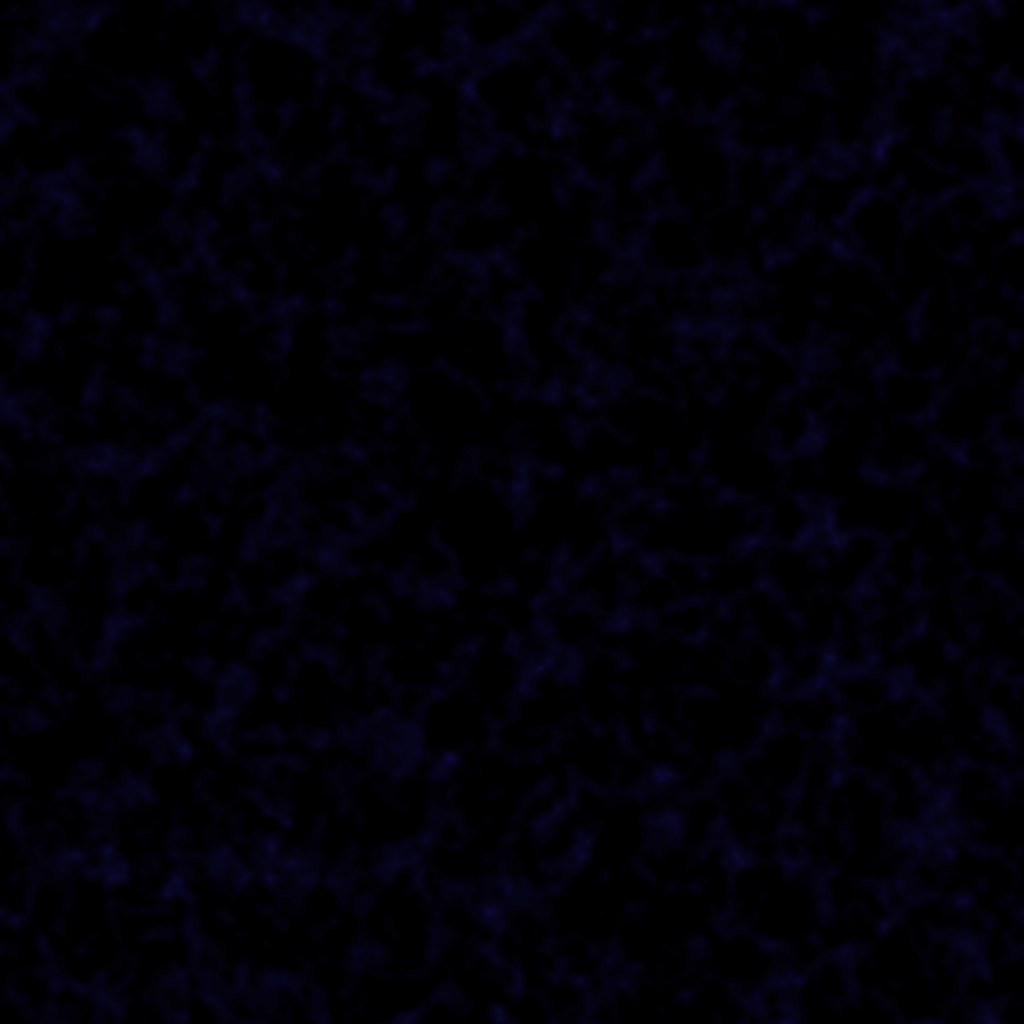
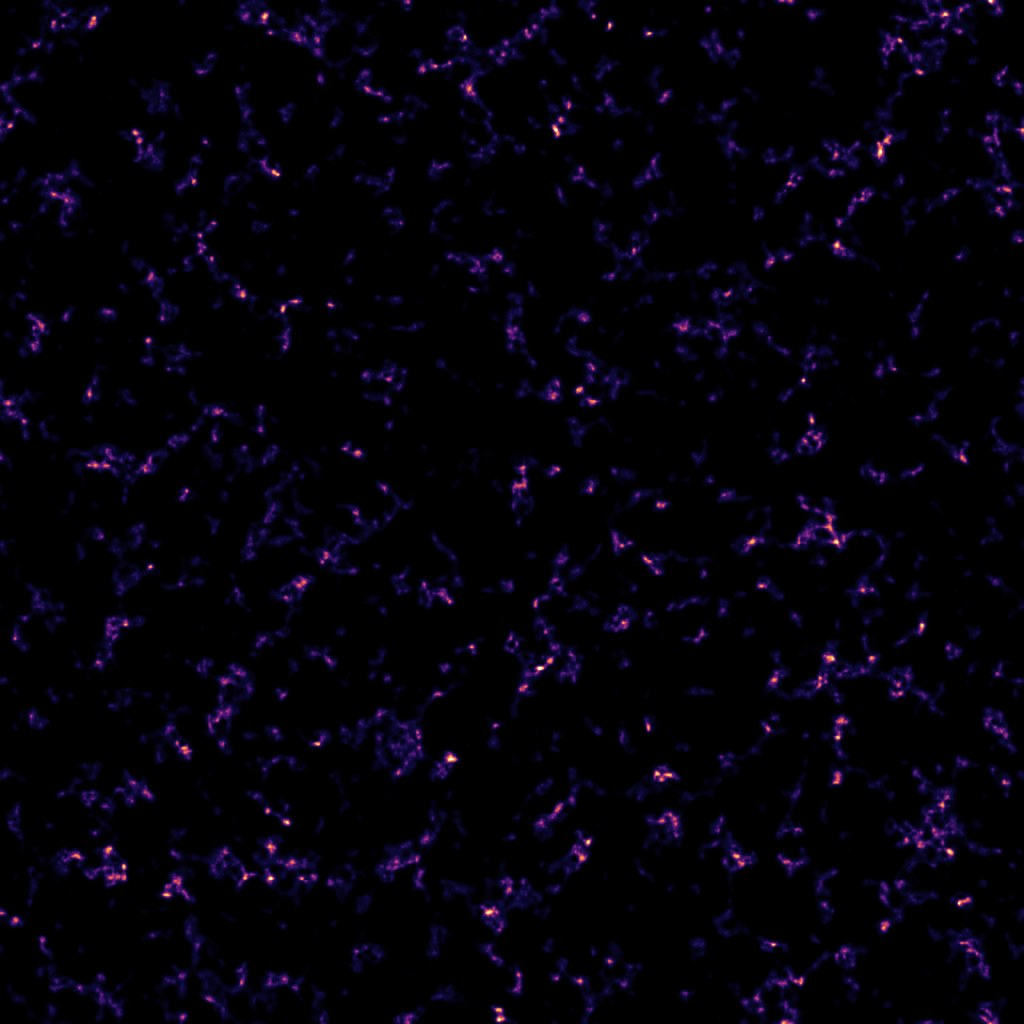
Carte : texte d'accueil réécrit (premier paragraphe + plus…), galaxie plus grande dans la promenade, grain de matière jusqu'à l'univers observable
Claude-Session: https://claude.ai/code/session_01GHjNcfzL2CJ8gPVCBJ87Be

diff --git a/app/public/carte/index.html b/app/public/carte/index.html
@@ -87,6 +87,8 @@ input[type=range].bouge { animation: pouls 1s ease-in-out infinite; }
 #modaleBoutons.empile { flex-direction: column; align-items: stretch; margin-top: 14px; }
 #modaleBoutons.empile #fermer { width: 100%; padding: 12px 14px; font-size: 15px; background: var(--accent); color: #0a0f18; border-color: var(--accent); font-weight: 600; }
 #modaleBoutons.empile .plus { width: 100%; }
+#modaleCorps p[hidden] { display: none; }
+#modaleCorps .lirePlus { color: var(--accent); text-decoration: none; white-space: nowrap; }
 #intro { position: fixed; left: 14px; right: 62px; top: calc(env(safe-area-inset-top) + 92px); background: rgba(12,14,21,0.92); border: 1px solid var(--trait); border-radius: 12px; padding: 12px 14px; z-index: 4; font-size: 14px; line-height: 1.5; }
 #intro[hidden], .carteInfo[hidden] { display: none; }
 .carteInfo { position: fixed; left: 14px; right: 62px; top: calc(env(safe-area-inset-top) + 92px); background: rgba(12,14,21,0.92); border: 1px solid var(--trait); border-radius: 12px; padding: 12px 14px; z-index: 4; font-size: 14px; line-height: 1.5; }
@@ -167,13 +169,11 @@ input[type=range].bouge { animation: pouls 1s ease-in-out infinite; }
   </div>
 </div>
 <template id="txtApropos">
-    <p>Cette carte est une tentative — nécessairement imparfaite — de rendre sensible ce que les nombres, seuls, ne peuvent qu'énoncer : que la lumière qui vous atteint ce soir a parfois quitté sa source avant que la Terre n'existe ; que l'espace lui-même s'étire, silencieusement, entre chaque point que vous voyez ; que l'univers observable, ce halo de 93 milliards d'années-lumière qui vous entoure, n'est peut-être qu'une fraction infime de ce qui existe réellement au-delà de ce que la lumière a eu le temps de nous apporter.</p>
-    <p>Zoomez, et vous traverserez en un geste des distances que la lumière met des milliards d'années à parcourir. Remontez le temps, et vous verrez la matière se resserrer, jusqu'au seuil où l'univers devient trop dense, trop jeune, pour qu'aucune lumière n'ait encore pu s'en échapper.</p>
-    <p>Il n'y a pas de centre à cette carte — seulement le point d'où nous regardons, comme n'importe quel autre point de l'univers pourrait le faire.</p>
-</template>
-<template id="txtAccueil">
-    <p>Depuis la toile cosmique jusqu'aux confins de ce que la lumière a jamais pu nous révéler — 93 milliards d'années-lumière d'univers observable tiennent entre vos doigts. Zoomez avec le curseur de droite, voyagez dans le temps avec celui du bas, et laissez-vous porter.</p>
-    <p>Les trois derniers boutons du bas racontent chacun l'une des trois limites de l'univers. Un second appui arrête le scénario et vous rend la main là où vous êtes ; « aujourd'hui », sous la frise du temps, vous ramène au présent.</p>
+    <p>Ici, l'univers tient entre vos doigts. Le curseur de droite vous emporte d'une échelle à l'autre, de notre galaxie jusqu'aux confins de l'univers observable ; celui du bas remonte le temps, jusqu'à l'aube du monde. Et sur cette carte se dessinent trois frontières que nul œil ne voit : l'univers observable, tout ce que la lumière a eu le temps de nous apporter ; la sphère de Hubble, au-delà de laquelle l'espace nous fuit plus vite que la lumière ; l'horizon des événements, au-delà duquel rien de ce qui advient aujourd'hui ne nous parviendra jamais.</p>
+    <p>La lumière qui vous atteint ce soir a parfois quitté sa source avant que la Terre n'existe. Entre chaque point que vous voyez, l'espace lui-même s'étire, en silence. Et ce halo de 93 milliards d'années-lumière qui nous enveloppe n'est peut-être qu'une parcelle infime de ce qui existe, au-delà de ce que la lumière a pu nous confier.</p>
+    <p>Zoomez, et vous franchirez d'un geste des distances que la lumière met des milliards d'années à parcourir. Remontez le temps, et vous verrez la matière se resserrer, jusqu'au seuil où l'univers, trop dense et trop jeune, ne laissait encore s'échapper aucune lumière.</p>
+    <p>Quatre récits vous prennent par la main : une promenade, de la toile cosmique jusqu'à la naissance de notre galaxie, puis un récit pour chacune des trois frontières. Un second appui sur un récit vous rend la liberté, là où vous êtes ; « aujourd'hui », sous la frise du temps, vous ramène au présent.</p>
+    <p>Il n'y a pas de centre à cette carte : seulement le point d'où nous regardons, comme n'importe quel autre point de l'univers pourrait le faire.</p>
 </template>
 <template id="txtObservable">
     <p>L'univers observable marque la limite de ce qu'il est physiquement possible d'observer aujourd'hui : la distance parcourue par la lumière la plus ancienne qui ait jamais pu nous atteindre, depuis les tout premiers instants de l'univers.</p>
@@ -240,6 +240,7 @@ const TUILE_GAL = 0.96782, GRANDE_GAL = 7.25866;
 const AT = [0.0667, 0.0909, 0.1250, 0.1667, 0.2222, 0.2857, 0.3704, 0.5000, 0.6667, 0.8333, 1.0000];
 const jeu = nom => AT.map(a => { const im = new Image(); im.src = `tuiles/${nom}-a${a.toFixed(4)}.jpg`; return { a, im, moy: "rgb(20,4,2)", motif: null }; });
 const imgsP = jeu("petite"), imgsG = jeu("grande"), imgs = imgsP.concat(imgsG);
+imgsG.forEach(o => o.crete = true);
 let pretes = 0;
 // un échec réseau est réessayé deux fois ; ensuite la tuile est abandonnée (on dessine
 // avec ses voisines dans le temps) pour ne jamais figer le chargement
@@ -276,11 +277,29 @@ function copieDecalee(c, src, T, [ox, oy]) {
   c.restore();
 }
 const superTuiles = new Map();
-function superTuile(o) {
-  let st = superTuiles.get(o.im.src); if (st) return st;
-  const n = 4, T = 256, c = document.createElement("canvas"); c.width = c.height = n * T;
-  // réduction par moitiés successives : pas de crénelage
+function superTuile(o, T = 256) {
+  const cle = o.im.src + "|" + T;
+  let st = superTuiles.get(cle); if (st) return st;
+  const n = 4, c = document.createElement("canvas"); c.width = c.height = n * T;
+  // réduction par moitiés successives : pas de crénelage. Pour la grande boîte, moyenne
+  // d'ordre 4 par blocs : un amas isolé garde la moitié de son éclat au lieu d'un seizième,
+  // si bien qu'aux très grands champs la matière reste un grain visible, pas une teinte unie
   let src = o.im, w = o.im.width;
+  if (o.crete && w > T) {
+    const f = w / T, seuil = { 32: 0.19, 64: 0.12, 128: 0.06, 256: 0.04 }[T] || 0.04, a = document.createElement("canvas"); a.width = a.height = w;
+    const ax = a.getContext("2d"); ax.drawImage(o.im, 0, 0); const d = ax.getImageData(0, 0, w, w).data;
+    const h = document.createElement("canvas"); h.width = h.height = T; const hx = h.getContext("2d"), r = hx.createImageData(T, T);
+    for (let y = 0; y < T; y++) for (let x0 = 0; x0 < T; x0++) {
+      let s0 = 0, s1 = 0, s2 = 0;
+      for (let v = 0; v < f; v++) { let q = ((y * f + v) * w + x0 * f) * 4; for (let u = 0; u < f; u++, q += 4) { const r0 = d[q] / 255, g0 = d[q + 1] / 255, b0 = d[q + 2] / 255; s0 += r0 * r0 * r0 * r0; s1 += g0 * g0 * g0 * g0; s2 += b0 * b0 * b0 * b0; } }
+      const k = (y * T + x0) * 4, n2 = f * f, R0 = (s0 / n2) ** 0.25, G0 = (s1 / n2) ** 0.25, B0 = (s2 / n2) ** 0.25;
+      // seuil constant par niveau (le 80e centile de la tuile d'aujourd'hui, mesuré une fois) :
+      // seuls les blocs les plus riches restent, en grains, avec leur couleur
+      const L = (R0 + G0 + B0) / 3, m = 2.6 * Math.min(1, Math.max(0, (L - seuil) / (0.8 * seuil)));
+      r.data[k] = 255 * Math.min(1, R0 * m); r.data[k + 1] = 255 * Math.min(1, G0 * m); r.data[k + 2] = 255 * Math.min(1, B0 * m); r.data[k + 3] = 255;
+    }
+    hx.putImageData(r, 0, 0); src = h; w = T;
+  }
   while (w / 2 >= T) { const h = document.createElement("canvas"); h.width = h.height = w / 2; const hx = h.getContext("2d"); hx.imageSmoothingQuality = "high"; hx.drawImage(src, 0, 0, w / 2, w / 2); src = h; w /= 2; }
   const x = c.getContext("2d"); x.imageSmoothingQuality = "high";
   for (let i = 0; i < n; i++) for (let j = 0; j < n; j++) {
@@ -289,8 +308,8 @@ function superTuile(o) {
     copieDecalee(x, src, T, decale(ii, jj));
   }
   st = ctx.createPattern(c, "repeat"); st.cote = n * T;
-  if (superTuiles.size > 6) superTuiles.delete(superTuiles.keys().next().value);
-  superTuiles.set(o.im.src, st); return st;
+  if (superTuiles.size > 12) superTuiles.delete(superTuiles.keys().next().value);
+  superTuiles.set(cle, st); return st;
 }
 
 // ---------------------------------------------------------------------------
@@ -965,7 +984,10 @@ function dessine() {
           }
           ctx.setTransform(1, 0, 0, 1, 0, 0);
         } else {
-          const st = superTuile(o), k = tuilePx / 256;
+          // grande boîte : motif préparé à la taille où il est dessiné (puissance de 2), pour que
+          // le navigateur ne le moyenne pas une seconde fois
+          const T = o.crete ? Math.max(32, Math.min(256, 2 ** Math.ceil(Math.log2(tuilePx)))) : 256;
+          const st = superTuile(o, T), k = tuilePx / T;
           st.setTransform(new DOMMatrix().translateSelf(cx - tuilePx / 2, cy - tuilePx / 2).scaleSelf(k, k));
           ctx.fillStyle = st; ctx.fillRect(0, 0, Wpx, Hpx);
         }
@@ -978,7 +1000,7 @@ function dessine() {
     };
     tuiles(imgsP, TUILE_GAL, 1 - aG);
     // la grande boîte, plus homogène, est rehaussée ; au très grand champ on l'atténue pour garder les sphères lisibles
-    tuiles(imgsG, GRANDE_GAL, aG * 1.4 * (1 - 0.55 * lisse(8, 40, W)));
+    tuiles(imgsG, GRANDE_GAL, aG * 1.4 * (1 - 0.25 * lisse(8, 40, W)));
     ctx.globalAlpha = 1;
   }
 
@@ -1413,21 +1435,22 @@ const SCEN = {
     // fin : retour fluide à aujourd'hui, au champ le plus proche de la référence Millennium
     // (0,2 Gal : élongation et rapport filaments/grenaille les plus proches de la cible)
     WFIN: 0.2,
+    WRECUL: 0.00017,      // champ pendant la remontée du temps : la galaxie assez grande pour ses détails
     alaFin() { libre(); },
     avance(dts) {
       if (this.retour >= 0) {
         this.retour += dts;
         const f = lisse(2.5, 11, this.retour), ft = lisse(2.5, 10, this.retour);
         t = 1.2 + (T0 - 1.2) * ft;
-        W = Math.exp(Math.log(0.00028) + (Math.log(this.WFIN) - Math.log(0.00028)) * f);
+        W = Math.exp(Math.log(this.WRECUL) + (Math.log(this.WFIN) - Math.log(this.WRECUL)) * f);
         elZ.value = uFromW(W); this.Wv = W;
         return this.retour >= 11.3;
       }
       const e = this.el, lis = (a, b) => lisse(a, b, e), lW = (w0, w1, f) => Math.exp(Math.log(w0) + (Math.log(w1) - Math.log(w0)) * f);
       if (e < 3) { W = 1.2; }
       else if (e < 14.5) W = lW(1.2, 0.00006, lis(3, 14.5));             // plongée vers la Voie lactée…
-      else if (e < 18.5) W = lW(0.00006, 0.00028, lis(14.5, 18.5));      // …et, d'un même mouvement, le recul vers ses environs
-      else W = 0.00028;
+      else if (e < 18.5) W = lW(0.00006, this.WRECUL, lis(14.5, 18.5));  // …et, d'un même mouvement, un léger recul
+      else W = this.WRECUL;
       if (e >= 19.5) {
         // le zoom est arrêté : on remonte le temps, d'abord doucement, puis vite jusqu'à ~7 Ga,
         // lentement pendant les collisions avec les galaxies naines, un peu plus vite ensuite
@@ -1445,7 +1468,7 @@ const SCEN = {
       if (e < 3) return "La toile cosmique aujourd'hui, sur des milliards d'années-lumière : des filaments de matière, des nœuds où s'amassent les galaxies, de grands vides.";
       if (e < 11) return "Plongée vers l'un de ces nœuds : notre superamas, puis notre groupe de galaxies.";
       if (e < 15.5) return "La Voie lactée, telle que la simule TNG50 : une jumelle de notre galaxie, vue de biais. Nous sommes dans son disque, à 27 000 années-lumière du centre.";
-      if (e < 19.5) return "Un peu de recul pour l'embrasser tout entière, avec ses environs.";
+      if (e < 19.5) return "Un peu de recul pour l'embrasser tout entière.";
       if (t > 12.5) return "Et maintenant, remontons le temps.";
       if (t > 10) return "Les bras spiraux s'effacent : ils sont faits d'étoiles jeunes et de gaz.";
       if (t > 7.2) return "Le disque se défait : il y a 6 à 8 milliards d'années, il était plus petit et plus agité.";
@@ -1589,8 +1612,16 @@ function zoomVers(Wc, ms = 800) { zoomAnim = { W0: W, W1: Wc, t0: performance.no
 // fenêtre d'information
 const modale = document.getElementById("modale"), corps = document.getElementById("modaleCorps"), titreM = document.getElementById("modaleTitre"), boutonsM = document.getElementById("modaleBoutons");
 let actionPrincipale = null;
-function ouvre(titre, gabarit, enPlus, principal) {
+function ouvre(titre, gabarit, enPlus, principal, tronque) {
   titreM.textContent = titre; corps.innerHTML = document.getElementById(gabarit).innerHTML;
+  if (tronque) {
+    // seul le premier paragraphe ; « plus… » déploie le reste dans la même fenêtre
+    const ps = [...corps.querySelectorAll("p")];
+    ps.slice(1).forEach(p => p.hidden = true);
+    const a = document.createElement("a"); a.href = "#"; a.className = "lirePlus"; a.textContent = "plus…";
+    a.onclick = e => { e.preventDefault(); ps.forEach(p => p.hidden = false); a.remove(); };
+    ps[0].append(" ", a);
+  }
   const bf = document.getElementById("fermer"); bf.textContent = principal ? principal[0] : "Fermer"; actionPrincipale = principal ? principal[1] : null;
   boutonsM.querySelectorAll(".plus").forEach(b => b.remove());
   boutonsM.classList.toggle("empile", !!principal);
@@ -1679,7 +1710,7 @@ matiere.charge("matiere", suivi("matiere"))
   .then(fini("matiere"), rate("matiere"))
   .then(() => chargeEnvirons())
   .then(() => chargeVoieLactee());
-ouvre("Bienvenue", "txtAccueil", ["En savoir plus", () => ouvre("L'Heure de s'enivrer", "txtApropos")], ["Commençons par une promenade", () => lanceScenario("promenade")]);
+ouvre("L'Heure de s'enivrer", "txtApropos", null, ["Commençons par une promenade", () => lanceScenario("promenade")], true);
 document.getElementById("repAuj").style.left = (uFromT(T0) / 1000 * 100) + "%";
 
 })();
